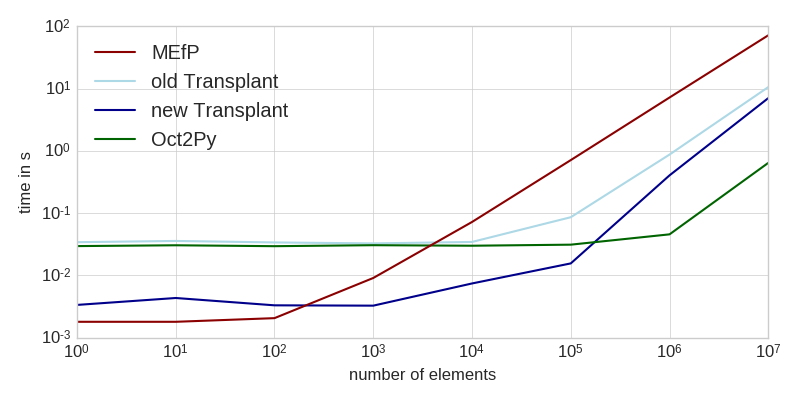
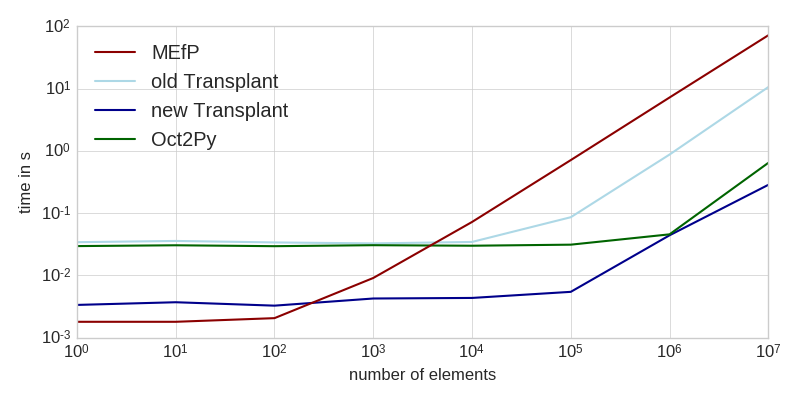
updated post

diff --git a/2016-06-21-transplant-revisited.html b/2016-06-21-transplant-revisited.html
@@ -1,0 +1,227 @@
+<?xml version="1.0" encoding="utf-8"?>
+<!DOCTYPE html PUBLIC "-//W3C//DTD XHTML 1.0 Strict//EN"
+"http://www.w3.org/TR/xhtml1/DTD/xhtml1-strict.dtd">
+<html xmlns="http://www.w3.org/1999/xhtml" lang="en" xml:lang="en">
+<head>
+<meta http-equiv="Content-Type" content="text/html;charset=utf-8" />
+<link rel="alternate"
+      type="appliation/rss+xml"
+      href="http://bastibe.de/rss.xml"
+      title="RSS feed for http://bastibe.de/">
+<title>Transplant, revisited</title><meta  name="author" content="Bastian Bechtold" />
+<link href='http://fonts.googleapis.com/css?family=Roboto&subset=latin' rel='stylesheet' type='text/css'>
+<link href='http://fonts.googleapis.com/css?family=Ubuntu+Mono' rel='stylesheet' type='text/css'>
+<link href= "static/style.css" rel="stylesheet" type="text/css" />
+<link rel="icon" href="static/favicon.ico">
+<link rel="apple-touch-icon-precomposed" href="static/favicon-152.png">
+<link rel="msapplication-TitleImage" href="static/favicon-144.png">
+<link rel="msapplication-TitleColor" href="#0141ff">
+<script type="text/javascript" src="https://cdn.mathjax.org/mathjax/latest/MathJax.js?config=TeX-AMS_HTML"> </script>
+<meta http-equiv="content-type" content="application/xhtml+xml; charset=UTF-8" />
+<meta name="viewport" content="initial-scale=1,width=device-width,minimum-scale=1"></head>
+<body>
+<div id="preamble" class="status"><div class="header">
+  <a href="http://bastibe.de">Basti's Scratchpad on the Internet</a>
+  <div class="sitelinks">
+    <a href="http://alpha.app.net/bastibe">alpha.app.net</a> | <a href="http://github.com/bastibe">Github</a>
+  </div>
+</div></div>
+<div id="content">
+<div class="post-date">21 Jun 2016</div>
+<h1 class="post-title">Transplant, revisited</h1>
+<p>
+A few months ago, I <a href="http://bastibe.de/2015-11-03-matlab-engine-performance.html">talked about</a> the performance of calling Matlab from Python. Since then, I implemented a few optimizations that make working with Transplant a lot faster:
+</p>
+
+
+<div class="figure">
+<p><img src="http://bastibe.de/static/2016-06/timings.png" alt="timings.png" />
+</p>
+</div>
+
+<p>
+The workload consisted of generating a bunch of random numbers (not included in the times), and sending them to Matlab for computation. This task is entirely dominated by the time it takes to transfer the data to Matlab (see table at the end for intra-language benchmarks of the same task).
+</p>
+
+<p>
+As you can see, the new Transplant is significantly faster <del>for small workloads, and still a factor of two faster for larger amounts of data</del>. It is now almost always a faster solution than the Matlab Engine for Python (MEfP) and Oct2Py. <del>For very large datasets, Oct2Py might be preferable, though.</del>
+</p>
+
+<p>
+This improvement comes from three major changes: Matlab functions are now returned as callable objects instead of ad-hoc functions, Transplant now uses MsgPack instead of JSON, and <code>loadlibrary</code> instead of a Mex file to call into <code>libzmq</code>. All of these changes are entirely under the hood, though, and the public API remains unchanged.
+</p>
+
+<p>
+The callable object thing is the big one for small workloads. The advantage is that the objects will only fetch documentation if <code>__doc__</code> is actually asked for. As it turns out, running <code>help('funcname')</code> for every function call is kind of a big overhead.
+</p>
+
+<p>
+Bigger workloads however are dominated by the time it takes Matlab to decode the data. String parsing is very slow in Matlab, which is a bad thing indeed if you're planning to read a couple hundred megabytes of JSON. Thus, I replaced JSON with MsgPack, which eliminates the parsing overhead almost entirely. JSON messaging is still available, though, if you pass <code>msgformat='json'</code> to the constructor. <b>Edit:</b> Additionally, binary data is no longer encoded as base64 strings, but passed directly through MsgPack. This yields about a ten-fold performance improvement, especially for larger data sets.
+</p>
+
+<p>
+Lastly, I rewrote the ZeroMQ interaction to use <code>loadlibrary</code> instead of a Mex file. This has no impact on processing speed at all, but you don't have to <a href="http://bastibe.de/2016-05-31-Matlab-FFI.html">worry about</a> compiling that C code any more.
+</p>
+
+<p>
+Oh, and Transplant now works on Windows!
+</p>
+
+<p>
+Here is the above data again in tabular form:
+</p>
+
+<table border="2" cellspacing="0" cellpadding="6" rules="groups" frame="hsides">
+
+
+<colgroup>
+<col  class="left" />
+
+<col  class="left" />
+
+<col  class="left" />
+
+<col  class="left" />
+
+<col  class="left" />
+
+<col  class="left" />
+
+<col  class="left" />
+
+<col  class="left" />
+</colgroup>
+<thead>
+<tr>
+<th scope="col" class="left">Task</th>
+<th scope="col" class="left">New Transplant</th>
+<th scope="col" class="left">Old Transplant</th>
+<th scope="col" class="left">Oct2Py</th>
+<th scope="col" class="left">MEfP</th>
+<th scope="col" class="left">Matlab</th>
+<th scope="col" class="left">Numpy</th>
+<th scope="col" class="left">Octave</th>
+</tr>
+</thead>
+<tbody>
+<tr>
+<td class="left">startup</td>
+<td class="left">4.8 s</td>
+<td class="left">5.8 s</td>
+<td class="left">11 ms</td>
+<td class="left">4.6 s</td>
+<td class="left">&#xa0;</td>
+<td class="left">&#xa0;</td>
+<td class="left">&#xa0;</td>
+</tr>
+
+<tr>
+<td class="left">sum(randn(1,1))</td>
+<td class="left">3.36 ms</td>
+<td class="left">34.2 ms</td>
+<td class="left">29.6 ms</td>
+<td class="left">1.8 ms</td>
+<td class="left">9.6 μs</td>
+<td class="left">1.8 μs</td>
+<td class="left">6 μs</td>
+</tr>
+
+<tr>
+<td class="left">sum(randn(1,10))</td>
+<td class="left">3.71 ms</td>
+<td class="left">35.8 ms</td>
+<td class="left">30.5 ms</td>
+<td class="left">1.8 ms</td>
+<td class="left">1.8 μs</td>
+<td class="left">1.8 μs</td>
+<td class="left">9 μs</td>
+</tr>
+
+<tr>
+<td class="left">sum(randn(1,100))</td>
+<td class="left">3.27 ms</td>
+<td class="left">33.9 ms</td>
+<td class="left">29.5 ms</td>
+<td class="left">2.06 ms</td>
+<td class="left">2.2 μs</td>
+<td class="left">1.8 μs</td>
+<td class="left">9 μs</td>
+</tr>
+
+<tr>
+<td class="left">sum(randn(1,1000))</td>
+<td class="left">4.26 ms</td>
+<td class="left">32.7 ms</td>
+<td class="left">30.6 ms</td>
+<td class="left">9.1 ms</td>
+<td class="left">4.1 μs</td>
+<td class="left">2.3 μs</td>
+<td class="left">12 μs</td>
+</tr>
+
+<tr>
+<td class="left">sum(randn(1,1e4))</td>
+<td class="left">4.35 ms</td>
+<td class="left">34.5 ms</td>
+<td class="left">30 ms</td>
+<td class="left">72.2 ms</td>
+<td class="left">25 μs</td>
+<td class="left">5.8 μs</td>
+<td class="left">38 μs</td>
+</tr>
+
+<tr>
+<td class="left">sum(randn(1,1e5))</td>
+<td class="left">5.45 ms</td>
+<td class="left">86.1 ms</td>
+<td class="left">31.2 ms</td>
+<td class="left">712 ms</td>
+<td class="left">55 μs</td>
+<td class="left">38.6 μs</td>
+<td class="left">280 μs</td>
+</tr>
+
+<tr>
+<td class="left">sum(randn(1,1e6))</td>
+<td class="left">44.1 ms</td>
+<td class="left">874 ms</td>
+<td class="left">45.7 ms</td>
+<td class="left">7.21 a</td>
+<td class="left">430 μs</td>
+<td class="left">355 μs</td>
+<td class="left">2.2 ms</td>
+</tr>
+
+<tr>
+<td class="left">sum(randn(1,1e7))</td>
+<td class="left">285 ms</td>
+<td class="left">10.6 s</td>
+<td class="left">643 ms</td>
+<td class="left">72 s</td>
+<td class="left">3.5 ms</td>
+<td class="left">5.04 ms</td>
+<td class="left">22 ms</td>
+</tr>
+</tbody>
+</table>
+</div>
+<div id="postamble" class="status"><div id="archive">
+  <a href="archive.html">Other posts</a>
+</div>
+<div id="disqus_thread"></div>
+<script type="text/javascript">
+  var disqus_shortname = 'bastibe';
+  (function() {
+    var dsq = document.createElement('script');
+    dsq.type = 'text/javascript';
+    dsq.async = true;
+    dsq.src = 'http://' + disqus_shortname + '.disqus.com/embed.js';
+    (document.getElementsByTagName('head')[0] || document.getElementsByTagName('body')[0]).appendChild(dsq);
+  })();
+</script>
+<noscript>Please enable JavaScript to view the
+<a href="http://disqus.com/?ref_noscript">comments powered by Disqus.</a></noscript>
+<a href="http://disqus.com" class="dsq-brlink">comments powered by <span class="logo-disqus">Disqus</span></a>
+<center><a rel="license" href="http://creativecommons.org/licenses/by-sa/3.0/"><img alt="Creative Commons License" style="border-width:0" src="http://i.creativecommons.org/l/by-sa/3.0/88x31.png" /></a><br /><span xmlns:dct="http://purl.org/dc/terms/" href="http://purl.org/dc/dcmitype/Text" property="dct:title" rel="dct:type">bastibe.de</span> by <a xmlns:cc="http://creativecommons.org/ns#" href="http://bastibe.de" property="cc:attributionName" rel="cc:attributionURL">Bastian Bechtold</a> is licensed under a <a rel="license" href="http://creativecommons.org/licenses/by-sa/3.0/">Creative Commons Attribution-ShareAlike 3.0 Unported License</a>.</center></div>
+</body>
+</html>

diff --git a/index.html b/index.html
@@ -26,7 +26,7 @@
     <a href="http://alpha.app.net/bastibe">alpha.app.net</a> | <a href="http://github.com/bastibe">Github</a>
   </div>
 </div></div>
-<div id="content"><div class="post-date">20 Jun 2016</div><h1 class="post-title"><a href="http://bastibe.de/2016-06-20-transplant-revisited.html">Transplant, revisited</a></h1>
+<div id="content"><div class="post-date">21 Jun 2016</div><h1 class="post-title"><a href="http://bastibe.de/2016-06-21-transplant-revisited.html">Transplant, revisited</a></h1>
 <p>
 A few months ago, I <a href="http://bastibe.de/2015-11-03-matlab-engine-performance.html">talked about</a> the performance of calling Matlab from Python. Since then, I implemented a few optimizations that make working with Transplant a lot faster:
 </p>
@@ -42,7 +42,7 @@ The workload consisted of generating a bunch of random numbers (not included in 
 </p>
 
 <p>
-As you can see, the new Transplant is significantly faster for small workloads, and still a factor of two faster for larger amounts of data. It is now almost always a faster solution than the Matlab Engine for Python (MEfP). For very large datasets, Oct2Py might be preferable, though.
+As you can see, the new Transplant is significantly faster <del>for small workloads, and still a factor of two faster for larger amounts of data</del>. It is now almost always a faster solution than the Matlab Engine for Python (MEfP) and Oct2Py. <del>For very large datasets, Oct2Py might be preferable, though.</del>
 </p>
 
 <p>
@@ -54,7 +54,7 @@ The callable object thing is the big one for small workloads. The advantage is t
 </p>
 
 <p>
-Bigger workloads however are dominated by the time it takes Matlab to decode the data. String parsing is very slow in Matlab, which is a bad thing indeed if you're planning to read a couple hundred megabytes of JSON. Thus, I replaced JSON with MsgPack, which eliminates the parsing overhead almost entirely. JSON messaging is still available, though, if you pass <code>msgformat='json'</code> to the constructor.
+Bigger workloads however are dominated by the time it takes Matlab to decode the data. String parsing is very slow in Matlab, which is a bad thing indeed if you're planning to read a couple hundred megabytes of JSON. Thus, I replaced JSON with MsgPack, which eliminates the parsing overhead almost entirely. JSON messaging is still available, though, if you pass <code>msgformat='json'</code> to the constructor. <b>Edit:</b> Additionally, binary data is no longer encoded as base64 strings, but passed directly through MsgPack. This yields about a ten-fold performance improvement, especially for larger data sets.
 </p>
 
 <p>
@@ -104,7 +104,7 @@ Here is the above data again in tabular form:
 <tbody>
 <tr>
 <td class="left">startup</td>
-<td class="left">5.2 s</td>
+<td class="left">4.8 s</td>
 <td class="left">5.8 s</td>
 <td class="left">11 ms</td>
 <td class="left">4.6 s</td>
@@ -126,7 +126,7 @@ Here is the above data again in tabular form:
 
 <tr>
 <td class="left">sum(randn(1,10))</td>
-<td class="left">4.34 ms</td>
+<td class="left">3.71 ms</td>
 <td class="left">35.8 ms</td>
 <td class="left">30.5 ms</td>
 <td class="left">1.8 ms</td>
@@ -137,7 +137,7 @@ Here is the above data again in tabular form:
 
 <tr>
 <td class="left">sum(randn(1,100))</td>
-<td class="left">3.31 ms</td>
+<td class="left">3.27 ms</td>
 <td class="left">33.9 ms</td>
 <td class="left">29.5 ms</td>
 <td class="left">2.06 ms</td>
@@ -148,7 +148,7 @@ Here is the above data again in tabular form:
 
 <tr>
 <td class="left">sum(randn(1,1000))</td>
-<td class="left">3.27 ms</td>
+<td class="left">4.26 ms</td>
 <td class="left">32.7 ms</td>
 <td class="left">30.6 ms</td>
 <td class="left">9.1 ms</td>
@@ -159,7 +159,7 @@ Here is the above data again in tabular form:
 
 <tr>
 <td class="left">sum(randn(1,1e4))</td>
-<td class="left">7.43 ms</td>
+<td class="left">4.35 ms</td>
 <td class="left">34.5 ms</td>
 <td class="left">30 ms</td>
 <td class="left">72.2 ms</td>
@@ -170,7 +170,7 @@ Here is the above data again in tabular form:
 
 <tr>
 <td class="left">sum(randn(1,1e5))</td>
-<td class="left">15.6 ms</td>
+<td class="left">5.45 ms</td>
 <td class="left">86.1 ms</td>
 <td class="left">31.2 ms</td>
 <td class="left">712 ms</td>
@@ -181,7 +181,7 @@ Here is the above data again in tabular form:
 
 <tr>
 <td class="left">sum(randn(1,1e6))</td>
-<td class="left">405 ms</td>
+<td class="left">44.1 ms</td>
 <td class="left">874 ms</td>
 <td class="left">45.7 ms</td>
 <td class="left">7.21 a</td>
@@ -192,7 +192,7 @@ Here is the above data again in tabular form:
 
 <tr>
 <td class="left">sum(randn(1,1e7))</td>
-<td class="left">7.05 s</td>
+<td class="left">285 ms</td>
 <td class="left">10.6 s</td>
 <td class="left">643 ms</td>
 <td class="left">72 s</td>

diff --git a/archive.html b/archive.html
@@ -28,7 +28,7 @@
 </div></div>
 <div id="content">
 <h1 class="title">Archive</h1>
-<div class="post-date">20 Jun 2016</div><h2 class="post-title"><a href="http://bastibe.de/2016-06-20-transplant-revisited.html">Transplant, revisited</a></h2>
+<div class="post-date">21 Jun 2016</div><h2 class="post-title"><a href="http://bastibe.de/2016-06-21-transplant-revisited.html">Transplant, revisited</a></h2>
 <div class="post-date">15 Jun 2016</div><h2 class="post-title"><a href="http://bastibe.de/2016-06-15-matlab-live-scripts.html">Teaching with Matlab Live Scripts</a></h2>
 <div class="post-date">31 May 2016</div><h2 class="post-title"><a href="http://bastibe.de/2016-05-31-Matlab-FFI.html">Matlab has an FFI and it is not Mex</a></h2>
 <div class="post-date">30 May 2016</div><h2 class="post-title"><a href="http://bastibe.de/2016-05-30-matplotlib-font-cache.html">Updating the Matplotlib Font Cache</a></h2>
